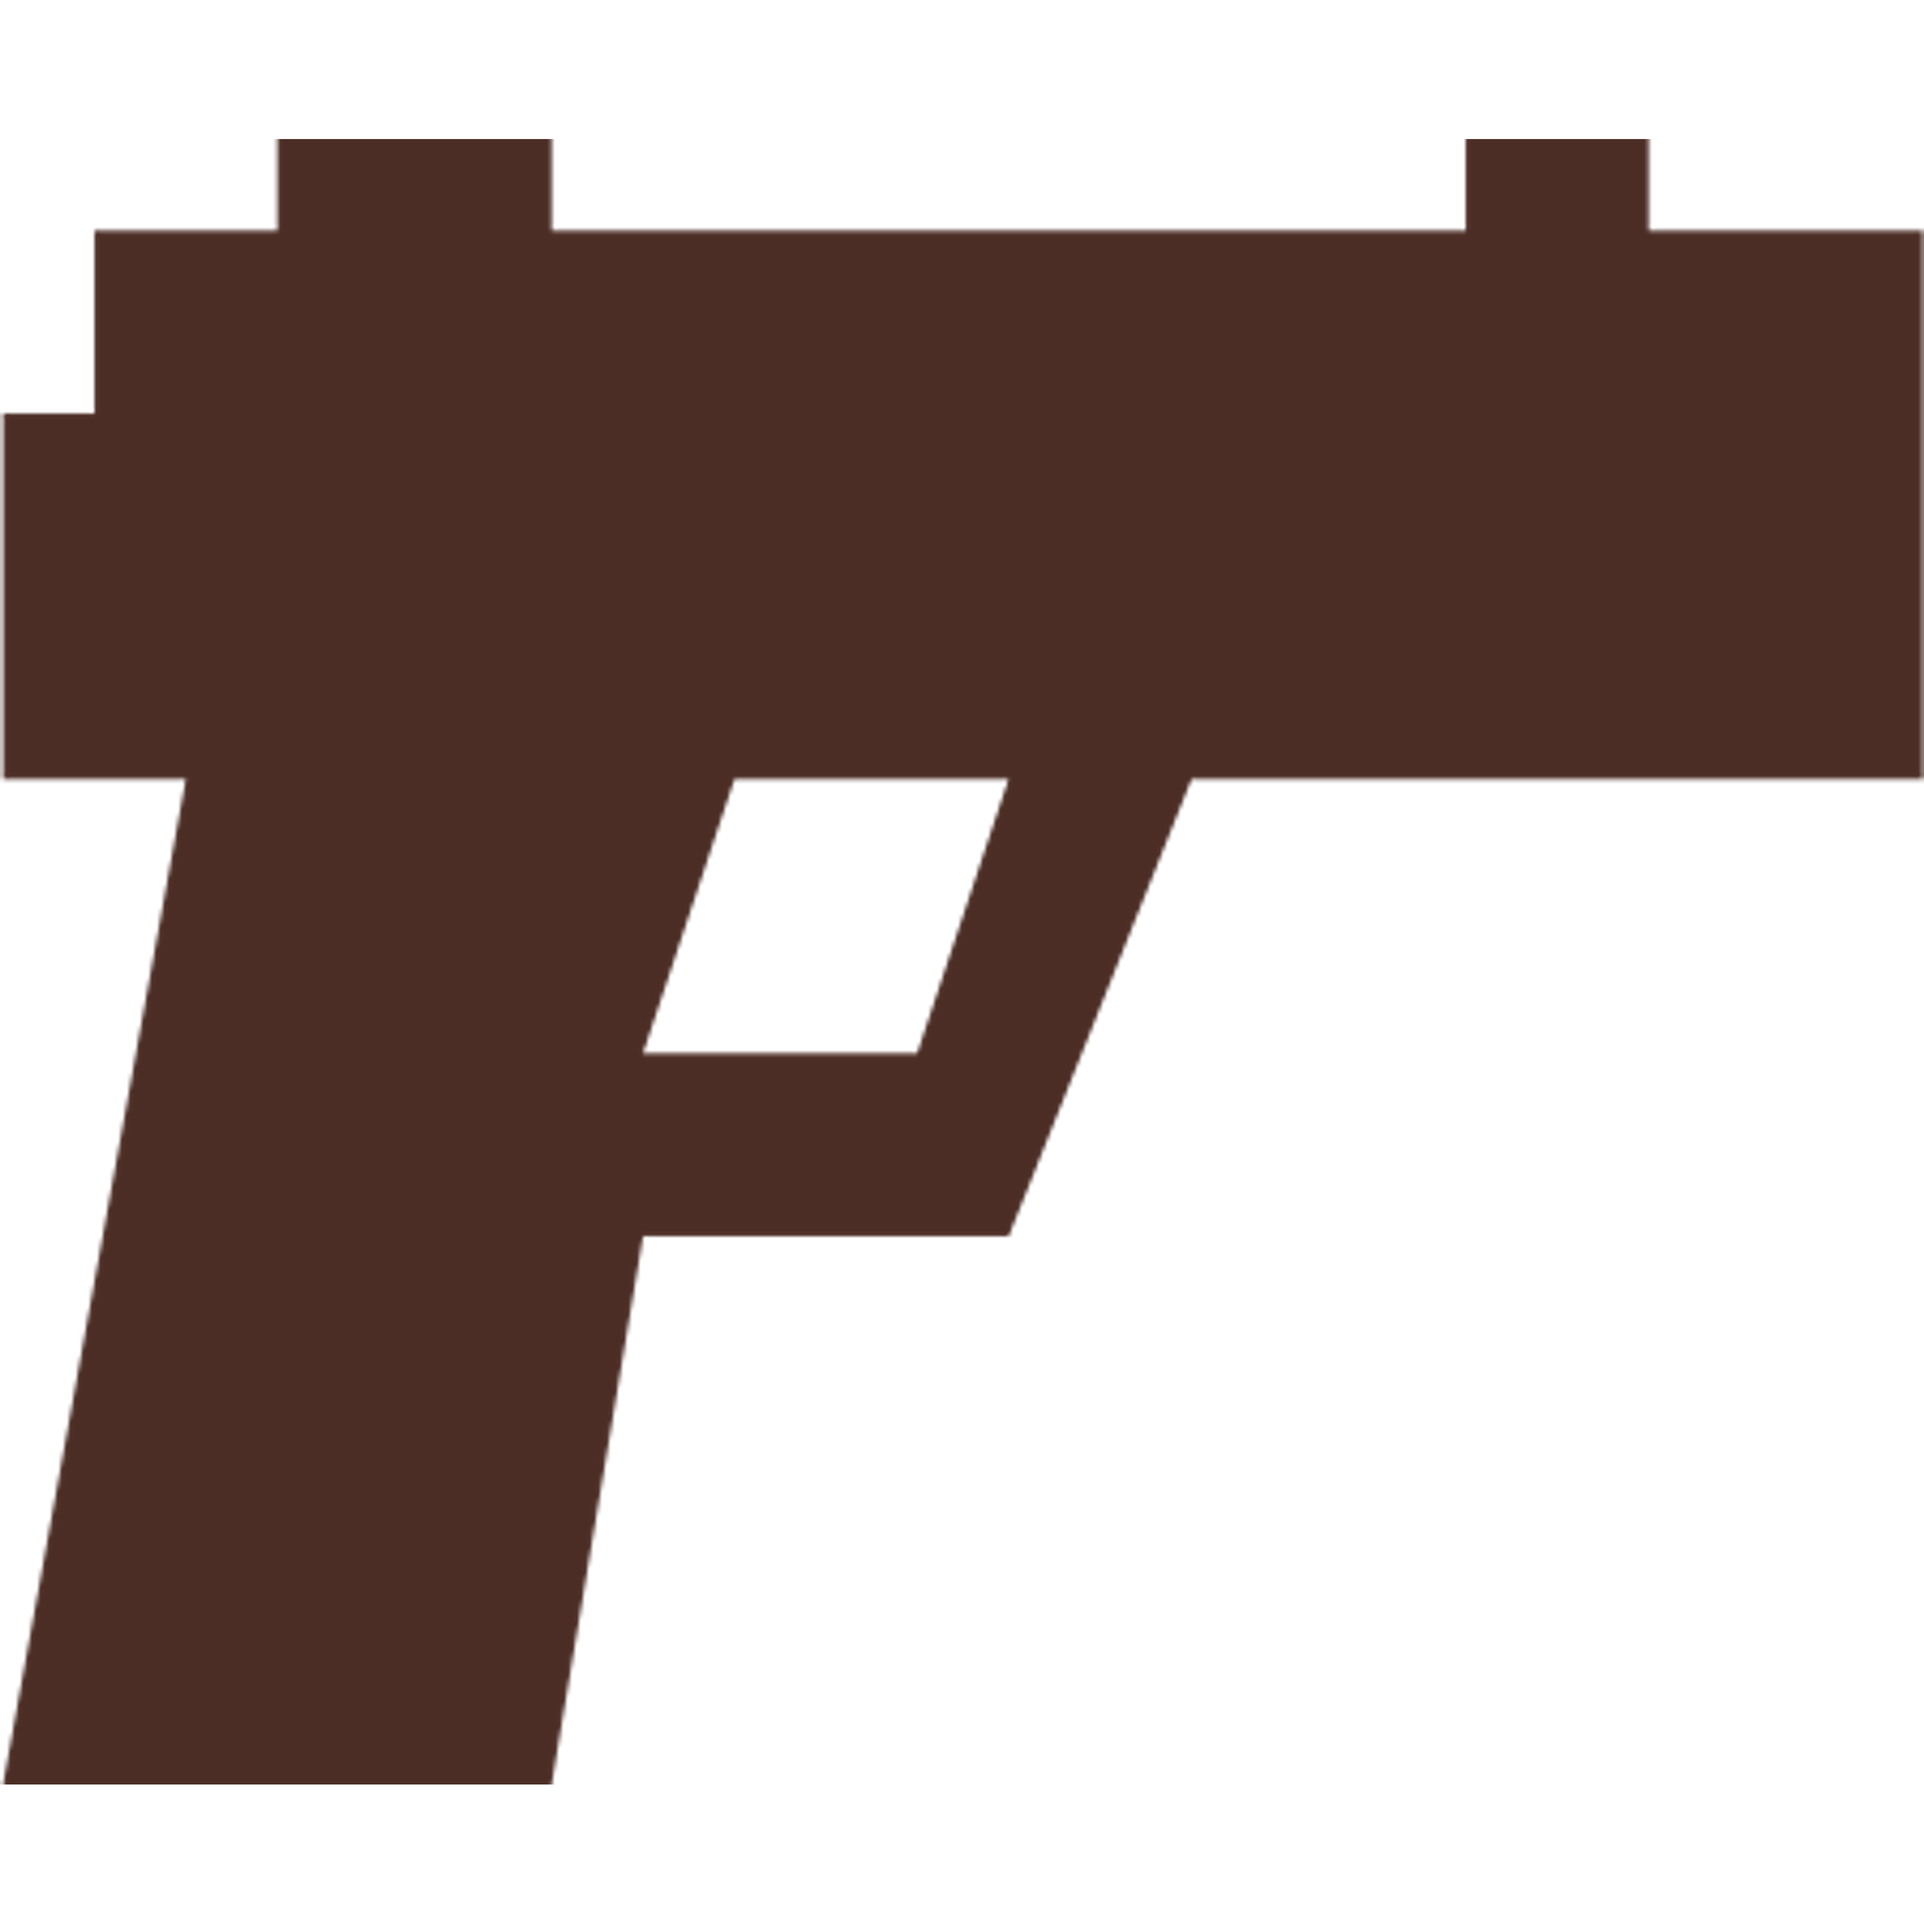
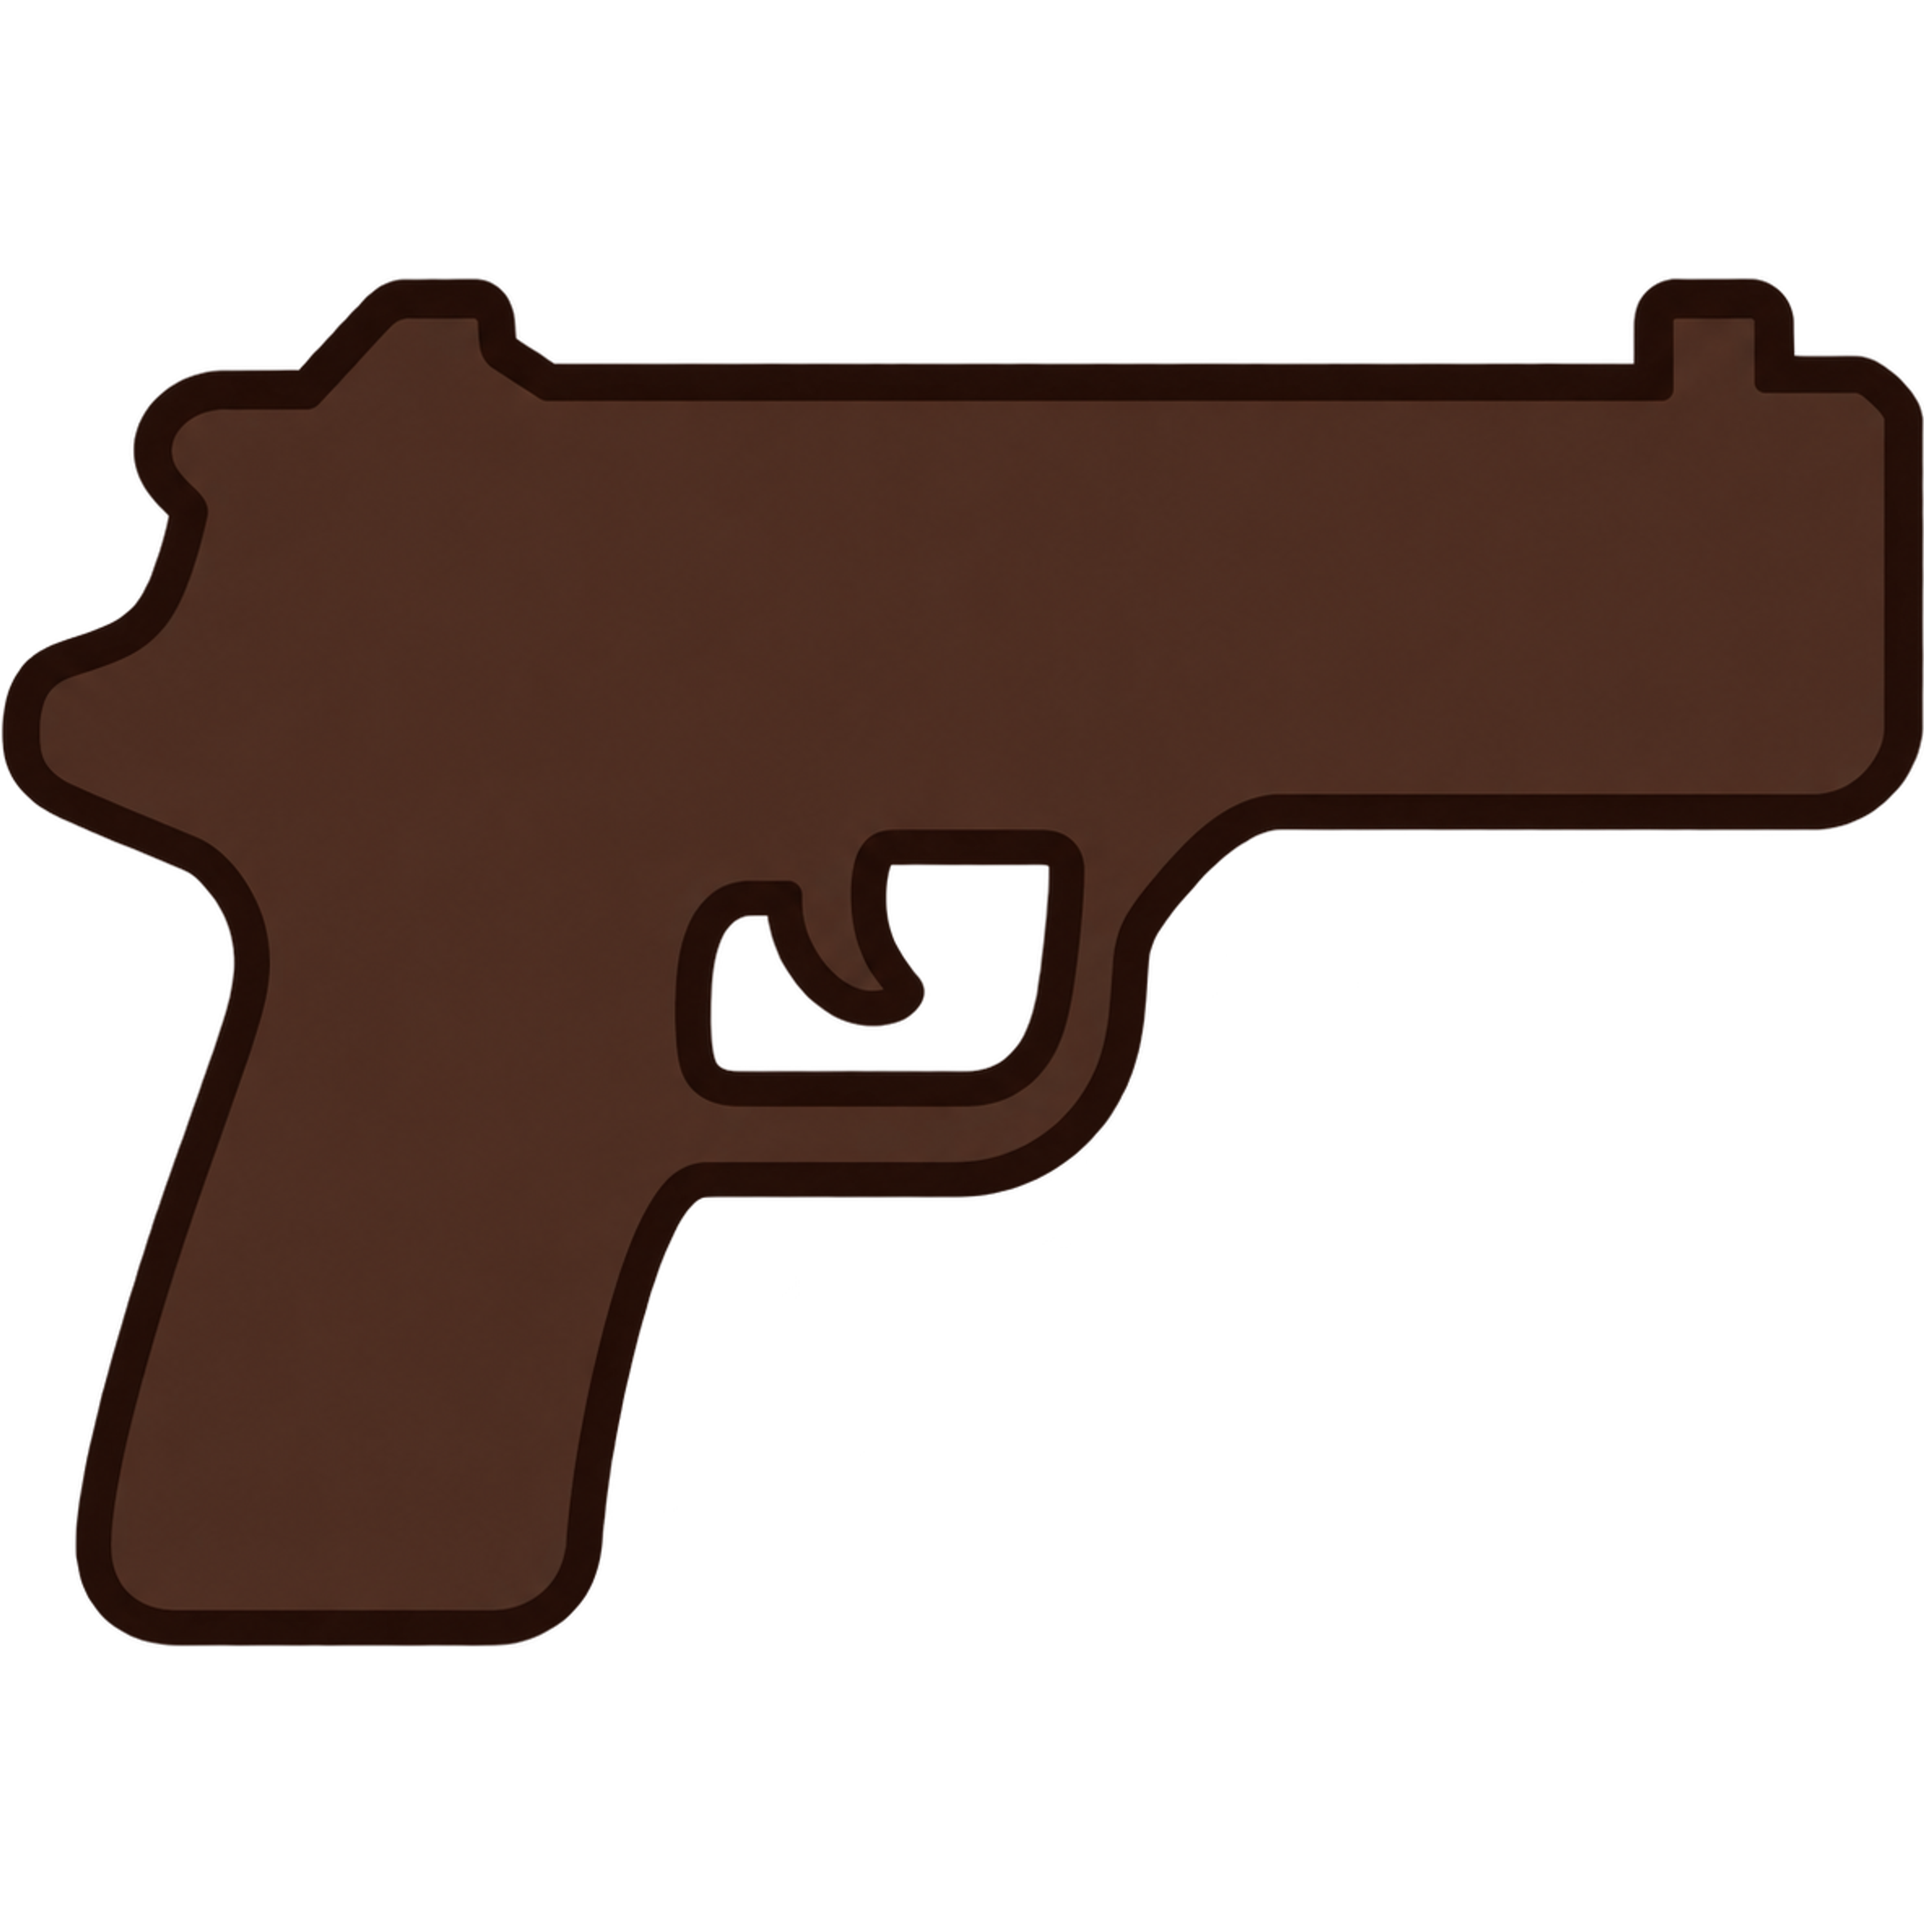
update ui

Changed region(s): [[0.0, 0.0625, 1.0, 0.9375]]

diff --git a/index.html b/index.html
@@ -12,7 +12,7 @@
     <link rel="stylesheet" href="styles/zappets.css?v=2"><link rel="stylesheet" href="styles/combat.css?v=44"><link rel="stylesheet" href="styles/showroom.css?v=45">
     <link rel="stylesheet" href="styles/ux.css">
     <link rel="stylesheet" href="styles/home-polish.css?v=1">
-    <link rel="stylesheet" href="styles/home-reference.css?v=11">
+    <link rel="stylesheet" href="styles/home-reference.css?v=12">
     <style>
       #armory-grid-section { display: none; }
       .weapon-mode #character-cards { display: none !important; }
@@ -829,20 +829,17 @@
             <span class="tile-icon"><img class="lobby-png" src="assets/ui/lobby/runtime/character.png" alt="" aria-hidden="true" draggable="false">
             </span>
             <strong>NHÂN VẬT</strong>
-            <span class="nav-chevron" aria-hidden="true"><img class="lobby-png" src="assets/ui/lobby/runtime/arrow-up-button.png" alt="" aria-hidden="true" draggable="false"></span>
             <small id="home-character-count" hidden>CHỌN NHÂN VẬT</small>
           </button>
           <button class="toy-button nav-tile" data-open="weapons">
-            <span class="tile-icon"><img class="lobby-png" src="assets/ui/lobby/runtime/weapon.png" alt="" aria-hidden="true" draggable="false">
+            <span class="tile-icon"><img class="lobby-png" src="assets/ui/lobby/runtime/weapon.png?v=2" alt="" aria-hidden="true" draggable="false">
             </span>
             <strong>KHO SÚNG</strong>
-            <span class="nav-chevron" aria-hidden="true"><img class="lobby-png" src="assets/ui/lobby/runtime/arrow-down-button.png" alt="" aria-hidden="true" draggable="false"></span>
           </button>
           <button class="toy-button nav-tile" data-open="records">
             <span class="tile-icon"><img class="lobby-png" src="assets/ui/lobby/runtime/trophy.png" alt="" aria-hidden="true" draggable="false">
             </span>
             <strong>THÀNH TỰU</strong>
-            <span class="nav-chevron" aria-hidden="true"><img class="lobby-png" src="assets/ui/lobby/runtime/arrow-down-button.png" alt="" aria-hidden="true" draggable="false"></span>
           </button>
           <div class="nav-tile-dual">
             <button class="toy-button nav-tile tile-settings" data-open="settings">

diff --git a/styles/home-reference.css b/styles/home-reference.css
@@ -329,3 +329,14 @@
  #screen-menu .friends-icon.lobby-png { width:21px; height:21px; }
  #screen-menu .coin-gold { width:29px; height:29px; }
 }
+/* Both footer controls share one row height, including room/guest states. */
+#screen-menu .play-area { --control-height:72px; align-items:stretch; }
+#screen-menu .play-area .mode-card { display:flex; flex-direction:column; min-height:var(--control-height); }
+#screen-menu .play-area .mode-ribbon { flex:0 0 24px; }
+#screen-menu .play-area .mode-content { flex:1; min-height:0; }
+#screen-menu .play-area .play-button,
+#screen-menu .play-area #btn-start { height:100%; min-height:var(--control-height); margin:0; align-self:stretch; }
+#screen-menu .play-area #guest-wait { margin:0; align-self:stretch; }
+@media(max-width:700px) {
+ #screen-menu .play-area { --control-height:68px; }
+}

diff --git a/assets/ui/lobby/README.md b/assets/ui/lobby/README.md
@@ -6,7 +6,7 @@
 - `source-sheet.png`: the supplied 1024 × 572 reference.
 - `transparent-sheet.png`: background extraction produced with the built-in imagegen tool.
 
-These are upscaled assets, not native 4K source detail. The original sheet contains 44 items. `friends-chat` is additionally isolated from the friends button; `weapon` preserves the existing lobby pistol because the sheet contains no weapon. The AI background extraction may subtly reconstruct original edges. Heart and diamond are exported but intentionally not displayed in the lobby.
+These are upscaled assets, not native 4K source detail. The original sheet contains 44 items. `friends-chat` is additionally isolated from the friends button; `weapon` uses the separate pistol reference subsequently supplied by the user (`weapon-reference.png`), with its extracted transparent source in `weapon-transparent.png`. The AI background extraction may subtly reconstruct original edges. Heart and diamond are exported but intentionally not displayed in the lobby.
 
 The HTML keeps accessible text and existing button handlers. Profile photos, account names, coin amounts, room state, and the multiplayer start label remain dynamic. The solo play button uses the supplied baked-in CHƠI artwork.
 
@@ -15,3 +15,7 @@ Regenerate using `node tools/art/extract-lobby-icons.cjs` with `sharp` available
 ## Built-in imagegen prompt
 
 Use case: background-extraction. Edit this single sprite atlas: remove ONLY the beige sheet background to true transparent alpha, including inside the two empty circular frames. Preserve every icon, all 44 objects, exact original positions, shapes, colors, text and layout unchanged. Do not rearrange, add, omit or redesign anything. Keep the original 1024:572 aspect ratio and expand to maximum available resolution (4K width preferred). This is an intermediate transparent atlas for deterministic individual extraction. Text BẠN BÈ and CHƠI must remain exact. Preserve cream fills INSIDE buttons and filled circular avatars; remove beige only in empty circular frames and outside objects.
+
+## Replacement weapon prompt (built-in imagegen)
+
+Isolate the supplied dark brown pistol on transparent alpha. Preserve its right-facing outline, curved slanted grip, trigger guard and transparent trigger hole, stepped rounded barrel, raised sights, flat brown fill and thin dark outline. No redesign, background, shadow, glow or tile. Reconstruct clean edges at high resolution.
